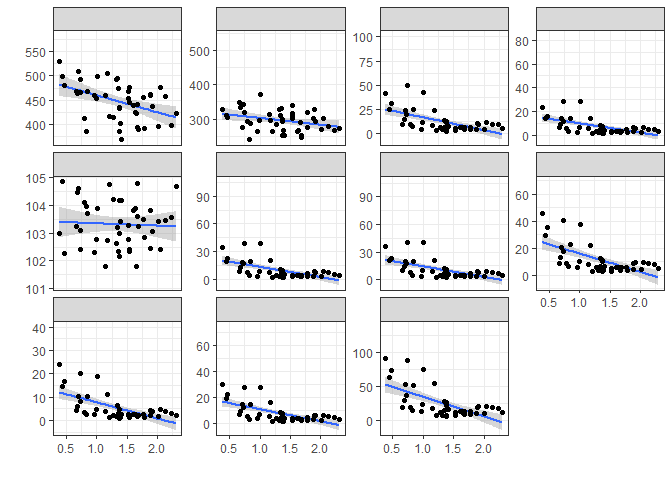
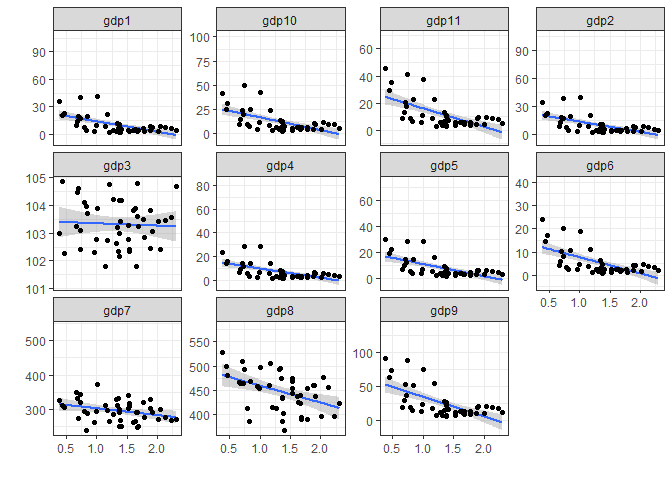
Update files

diff --git a/README.html b/README.html
@@ -659,11 +659,11 @@ body {
 <span id="cb4-8"><a href="#cb4-8" aria-hidden="true"></a>  ) <span class="op">+</span></span>
 <span id="cb4-9"><a href="#cb4-9" aria-hidden="true"></a><span class="st">  </span><span class="kw">scale_y_continuous</span>(<span class="dt">labels =</span> scales<span class="op">::</span>comma)<span class="op">+</span></span>
 <span id="cb4-10"><a href="#cb4-10" aria-hidden="true"></a><span class="st">  </span><span class="kw">theme_bw</span>() <span class="op">+</span></span>
-<span id="cb4-11"><a href="#cb4-11" aria-hidden="true"></a><span class="st">    </span><span class="kw">facet_wrap</span>(<span class="op">~</span>gdp_j, <span class="dt">scales =</span> <span class="st">&quot;free_y&quot;</span>)</span>
+<span id="cb4-11"><a href="#cb4-11" aria-hidden="true"></a><span class="st">    </span><span class="kw">facet_wrap</span>(<span class="op">~</span>gdp, <span class="dt">scales =</span> <span class="st">&quot;free_y&quot;</span>)</span>
 <span id="cb4-12"><a href="#cb4-12" aria-hidden="true"></a><span class="co">#&gt; `geom_smooth()` using formula &#39;y ~ x&#39;</span></span>
 <span id="cb4-13"><a href="#cb4-13" aria-hidden="true"></a><span class="co">#&gt; Warning: Removed 11 rows containing non-finite values (stat_smooth).</span></span>
 <span id="cb4-14"><a href="#cb4-14" aria-hidden="true"></a><span class="co">#&gt; Warning: Removed 11 rows containing missing values (geom_point).</span></span></code></pre></div>
[2 lines of base64/hex data omitted]
 
 </body>
 </html>

diff --git a/README.md b/README.md
@@ -74,7 +74,7 @@ gdp2018_full |>
   ) +
   scale_y_continuous(labels = scales::comma)+
   theme_bw() +
-    facet_wrap(~gdp_j, scales = "free_y")
+    facet_wrap(~gdp, scales = "free_y")
 #> `geom_smooth()` using formula 'y ~ x'
 #> Warning: Removed 11 rows containing non-finite values (stat_smooth).
 #> Warning: Removed 11 rows containing missing values (geom_point).
